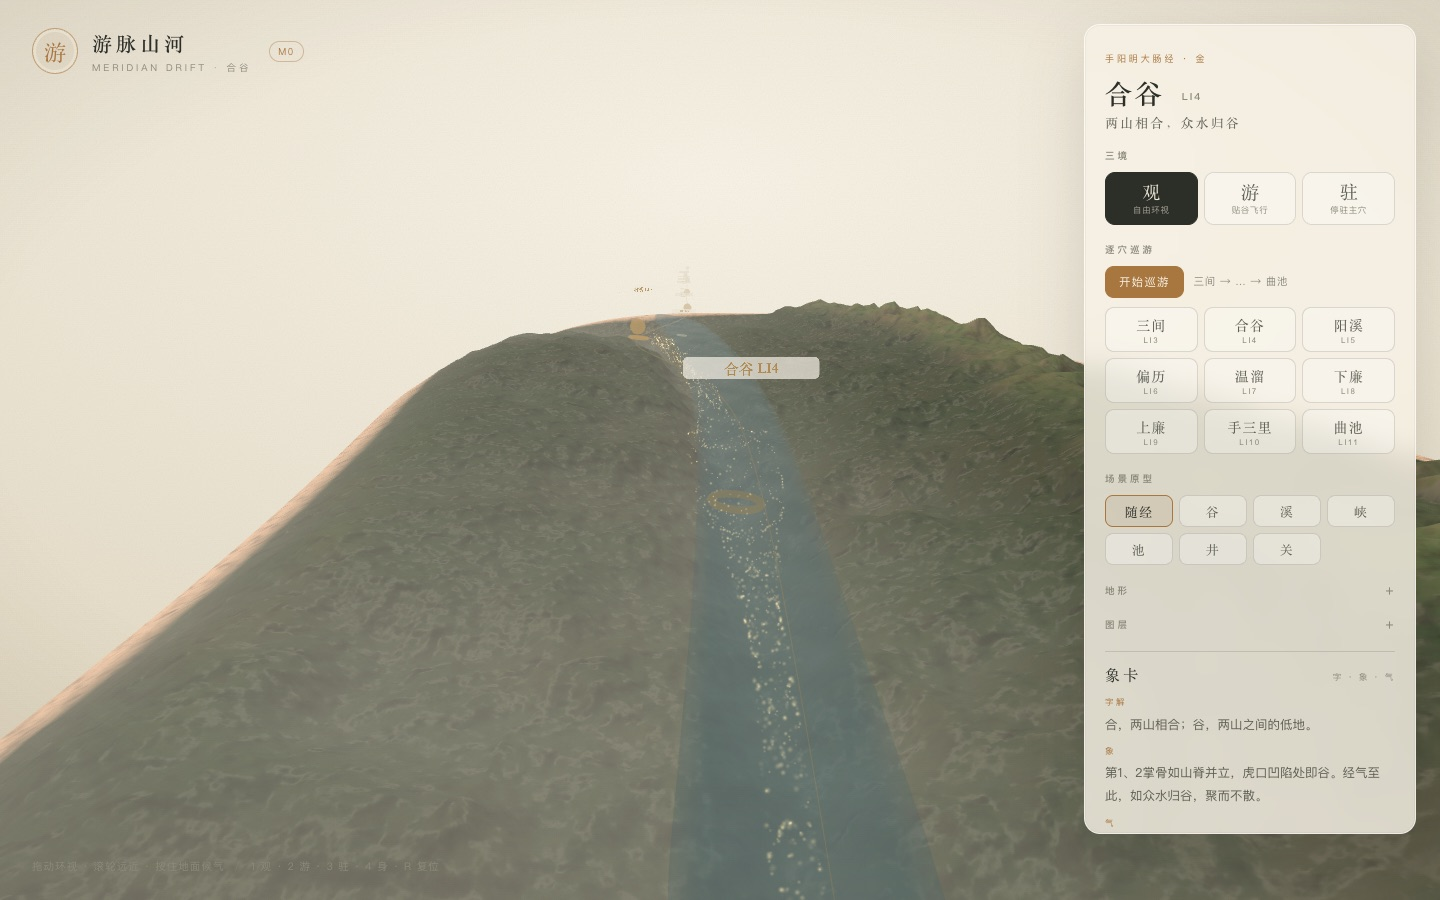
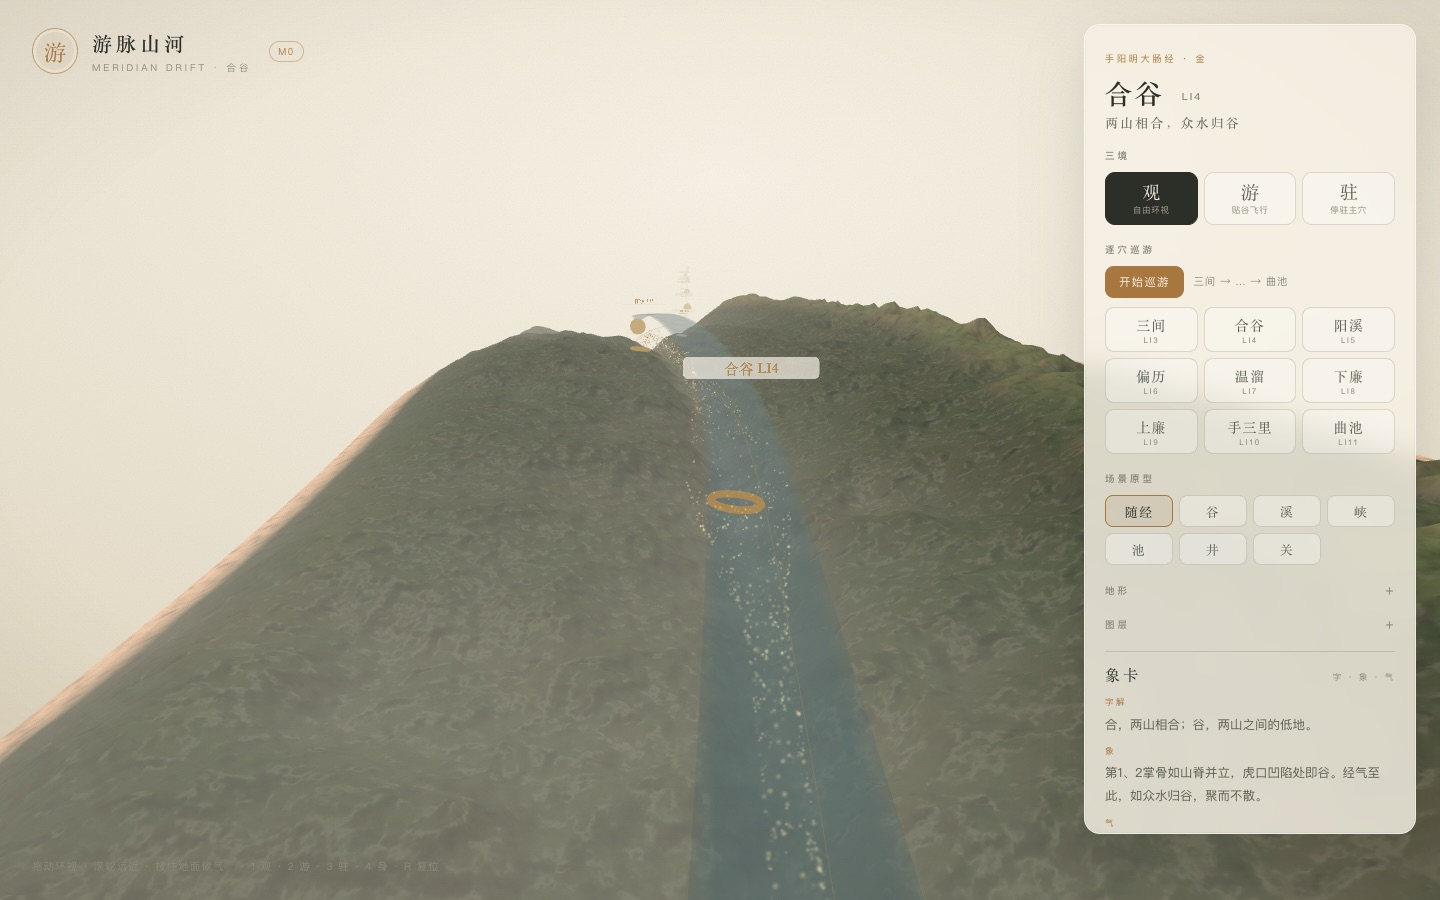
feat: 扩大焦点窗口并软化边界
- 窗口半宽 5cm，减少换窗频率
- 水面抬升收窄到 0.55x
- 地形窗口边缘 dither dissolve
- observe 截图更新

diff --git a/packages/scene-gen/src/corridor/build.ts b/packages/scene-gen/src/corridor/build.ts
@@ -261,7 +261,7 @@ function buildRiver(field: TerrainField, s0: number, s1: number): MeshData {
     // 走廊端头地形会摊平，湿边可能突然变宽；夹住并收口，避免出现悬空水膜
     const taper =
       smoothstep(s0 + 0.006, s0 + 0.018, s) * smoothstep(s1 - 0.006, s1 - 0.018, s);
-    const maxHalf = Math.max(0.0012, field.paramsAt(s).poolSigmaT * 0.6);
+    const maxHalf = Math.max(0.001, field.paramsAt(s).poolSigmaT * 0.45);
     const left = Math.max(span.left, -maxHalf) * taper;
     const right = Math.min(span.right, maxHalf) * taper;
     for (let c = 0; c < cols; c++) {

diff --git a/packages/render/src/terrain/terrainMaterial.ts b/packages/render/src/terrain/terrainMaterial.ts
@@ -149,6 +149,11 @@ const fragmentShader = /* glsl */ `
     fog = clamp(fog + valleyMist * (1.0 - fog), 0.0, 0.94);
     lit = mix(lit, uFog, fog);
 
+    // 窗口边缘 dissolve，避免 tile 切边成为硬直线
+    float edgeFade =
+      smoothstep(0.0, 0.07, vUv.x) * smoothstep(1.0, 0.93, vUv.x);
+    if (edgeFade < 0.999 && hash21(gl_FragCoord.xy) > edgeFade) discard;
+
     gl_FragColor = vec4(lit, 1.0);
     #include <colorspace_fragment>
   }

diff --git a/packages/scene-gen/src/corridor/field.ts b/packages/scene-gen/src/corridor/field.ts
@@ -239,7 +239,8 @@ export class TerrainField {
     const p = this.paramsAt(s);
     const ds = s - this.poolS;
     const poolMix = Math.exp(-((ds / 0.0075) ** 2));
-    return p.waterLevel + (p.poolLevel - p.waterLevel) * poolMix;
+    const level = p.waterLevel + (p.poolLevel - p.waterLevel) * poolMix;
+    return level * (this.surface === 'arm' ? 0.55 : 1);
   }
 
   displacementAt(s: number, t: number): number {

diff --git a/apps/web/src/scene/SceneHost.ts b/apps/web/src/scene/SceneHost.ts
@@ -37,7 +37,7 @@ export const TOUR_CODES = [
 ] as const;
 
 const CODES = TOUR_CODES;
-const WINDOW_HALF = 0.035;
+const WINDOW_HALF = 0.05;
 
 export interface SceneParams {
   valleyDepth: number;

diff --git a/docs/14-M1-焦点窗口连续手臂.md b/docs/14-M1-焦点窗口连续手臂.md
@@ -23,7 +23,7 @@
 
 - 一条 route：LI3 → LI11，9 站；
 - 一个 `SceneHost`、一个 WebGL 上下文、一次初始加载；
-- 只构建焦点 ±3.5cm 的走廊窗口；
+- 只构建焦点 ±5cm 的走廊窗口；
 - 窗口外只有 ArmLine 经线 + 穴位点（L2）；
 - 窗口随巡游/飞行滑动，异步换入，不重建场景；
 - 相机 `up` 跟随焦点局部法线，腕部不再出现整臂高模峭壁。
@@ -50,7 +50,7 @@ route (LI3–LI11)
 
 ## 3. 窗口与加载
 
-- 初始窗口：合谷 ±3.5cm；
+- 初始窗口：合谷 ±5cm；
 - 焦点移动超过约 2.3cm 时换窗口；
 - 窗口参数按 5mm 量化，Worker + IndexedDB 缓存可直接命中；
 - 窗口生成期间保留旧窗口，不阻塞输入；
@@ -74,7 +74,7 @@ route (LI3–LI11)
 
 ## 5. 已知取舍
 
-- 这是**单窗口**，不是完整 tile 管理器；窗口边界仍有可见的切边；
+- 这是**单窗口**，不是完整 tile 管理器；边界用 dither dissolve 软化，但仍不是真正的 skirt；
 - 水面在部分视角偏宽，窗边缺少 skirt/淡出；
 - 窗口换入时远处标签会短暂保留（ArmLine 只隐藏焦点附近点）；
 - 初始冷启动仍有 shader 编译与首窗口生成，加载遮罩可能停留 1–2 秒；

diff --git a/docs/05-代码目录说明.md b/docs/05-代码目录说明.md
@@ -470,7 +470,7 @@ M0 里还有几处硬编码需要先泛化（M1 任务）：
 ### 调焦点窗口
 
 - `packages/scene-gen/src/corridor/window.ts`：`planCorridorWindow` / `WindowTracker`；
-- 半宽 3.5cm、5mm 吸附、12mm 缓冲；
+- 半宽 5cm、5mm 吸附、12mm 缓冲；
 - `SceneHost.loadInitial/rebuildWindow`：窗口 field + Worker/缓存；
 - 远景：`packages/render/src/markers/ArmLine.ts`。
 
